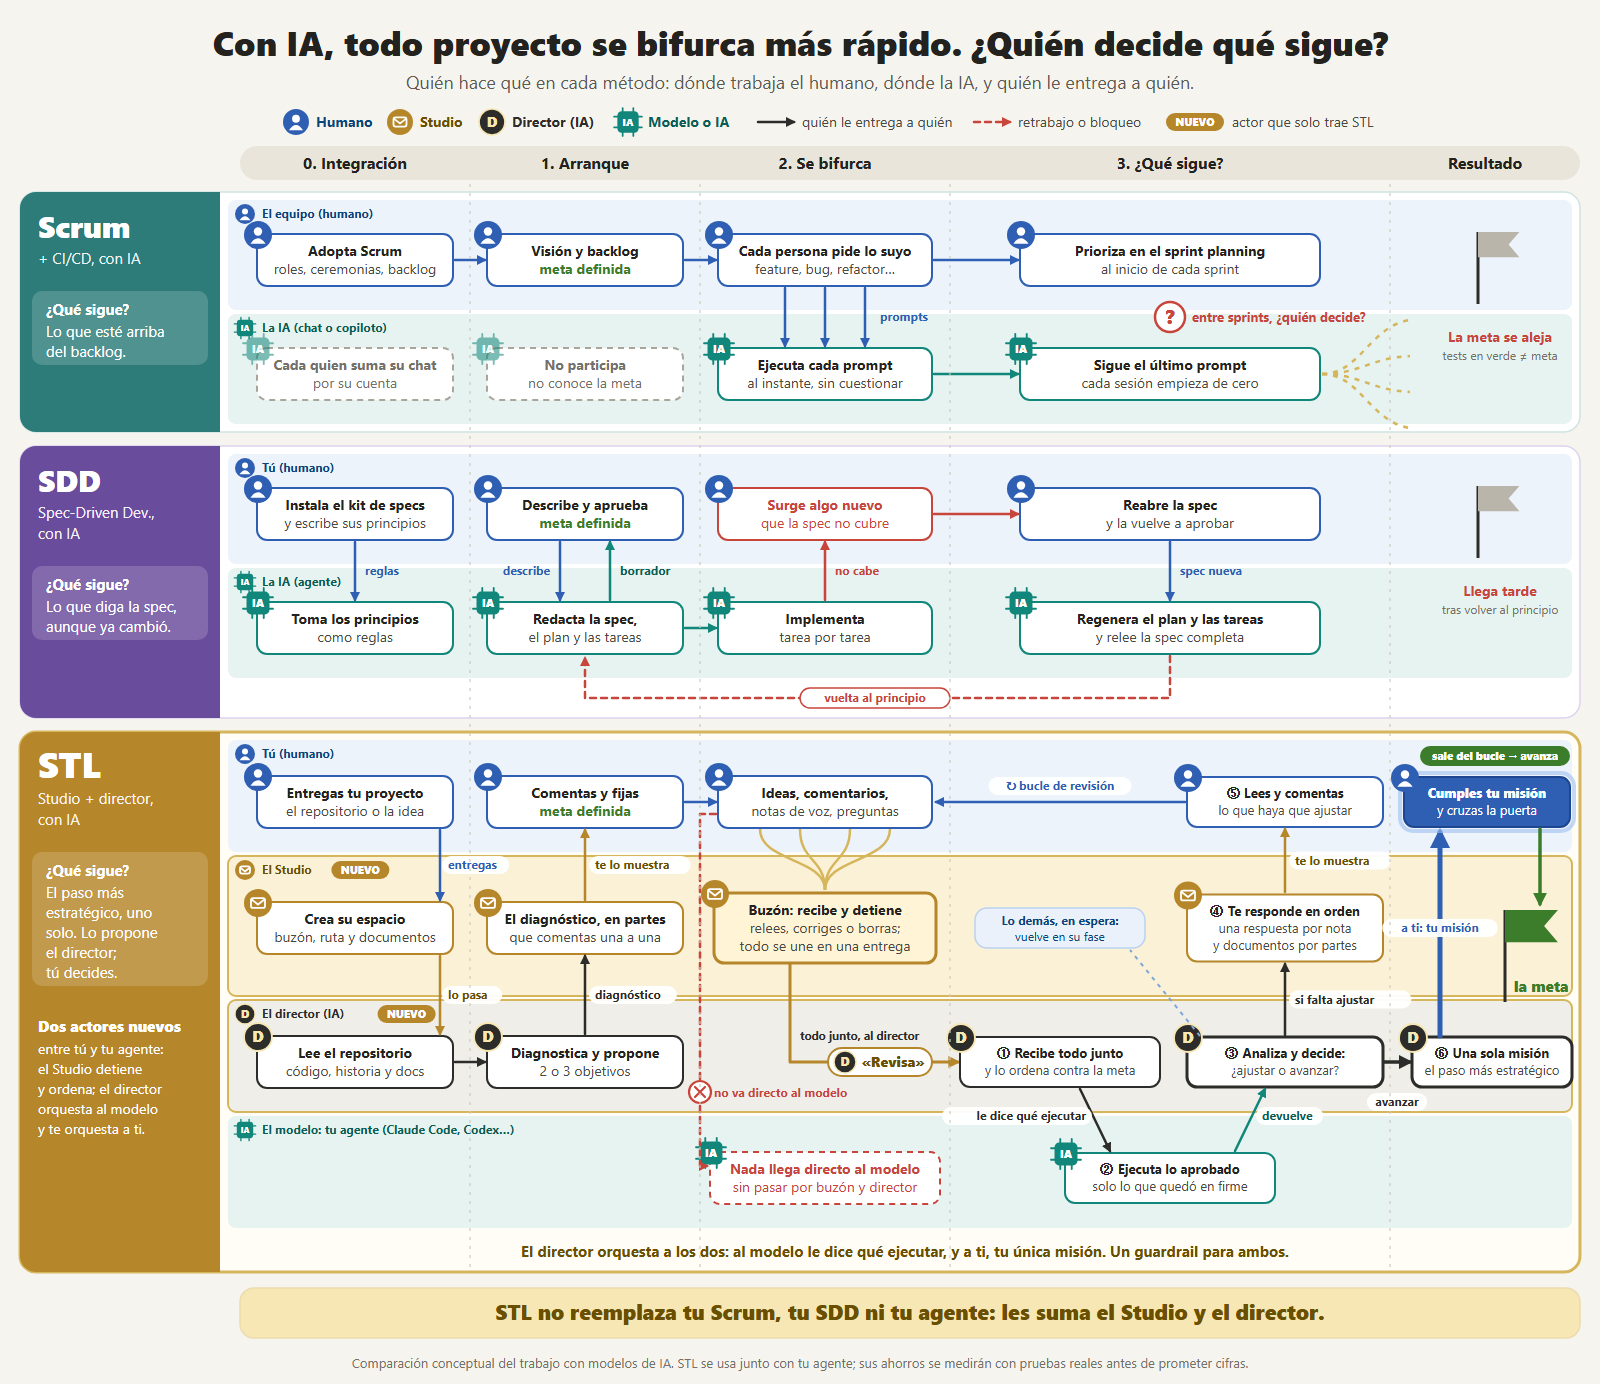
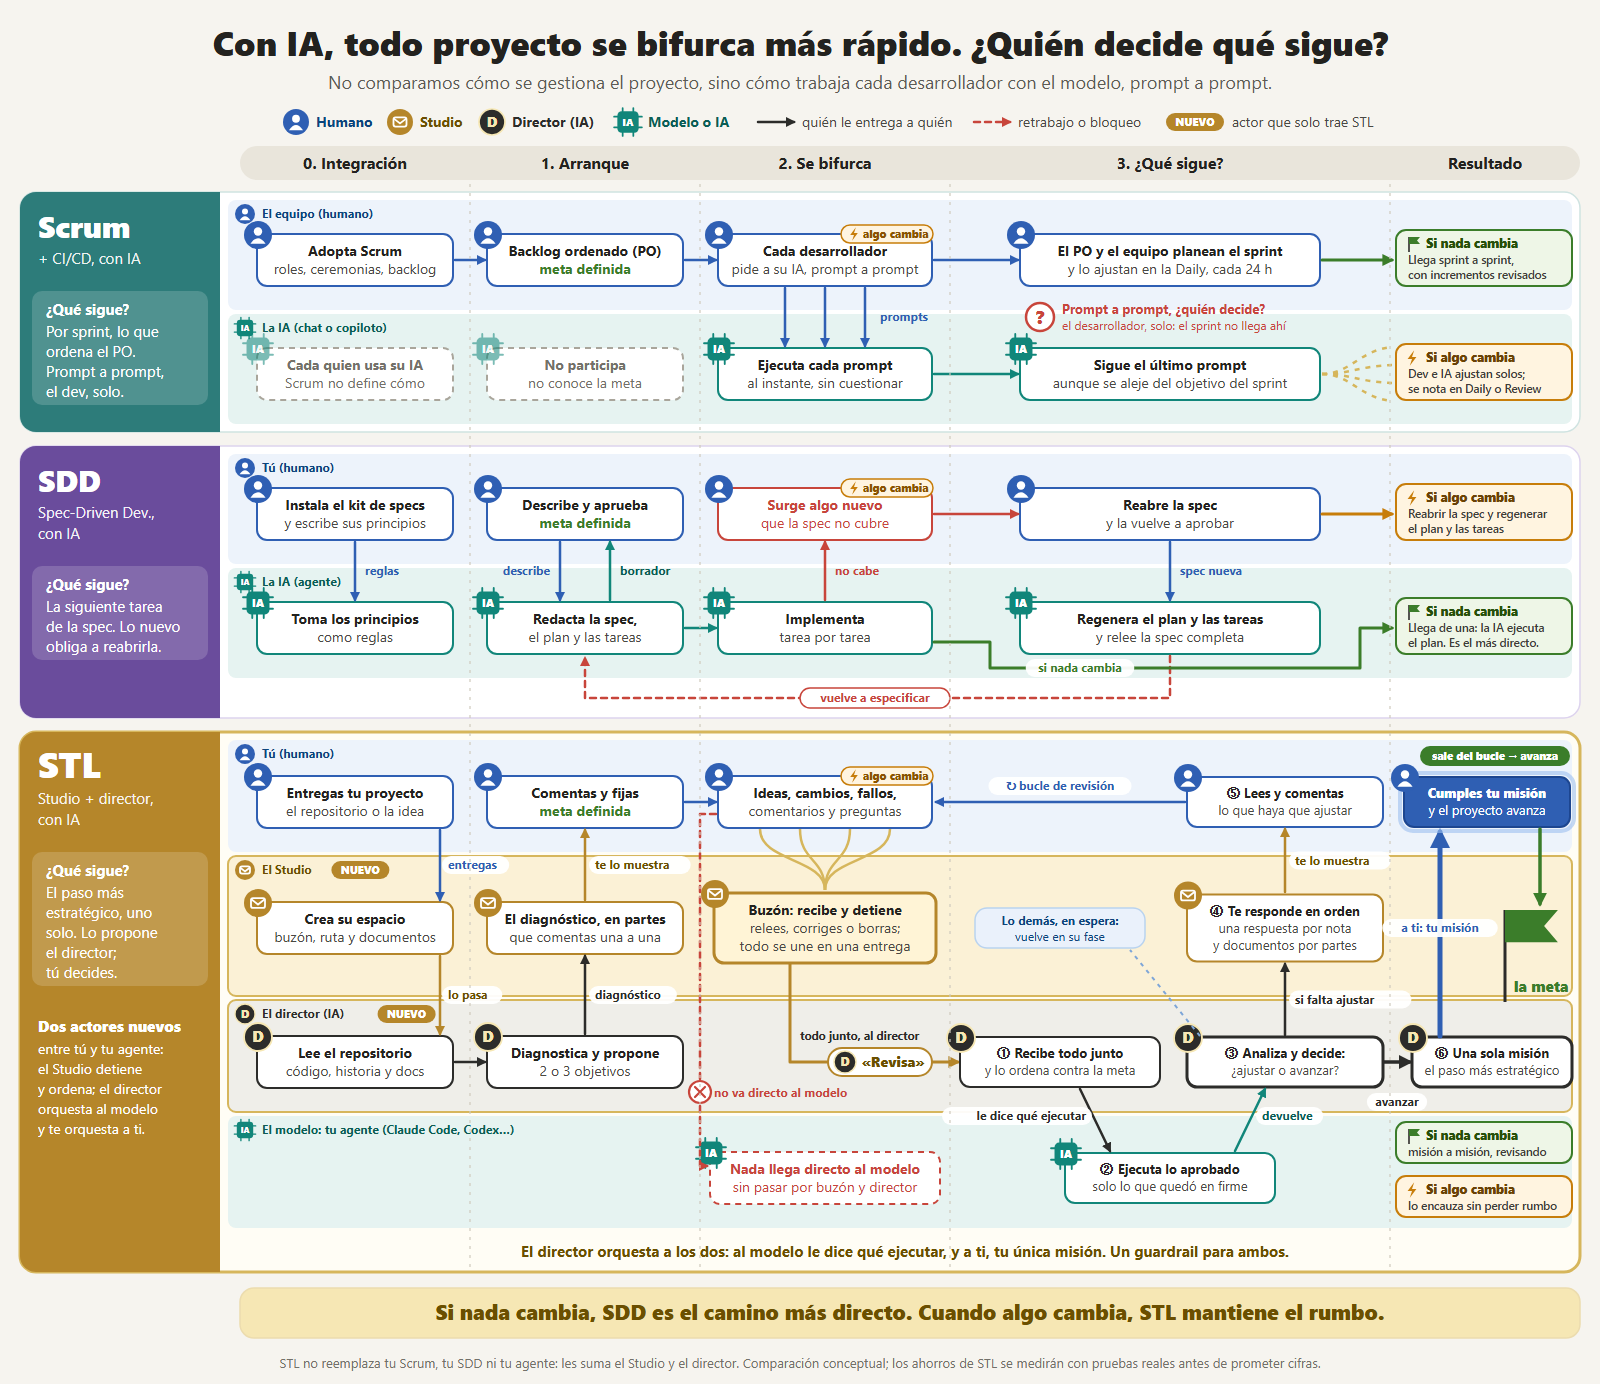
Qué es STL: Scrum y SDD como funcionan de verdad, y cada método en sus dos casos (si nada cambia y si algo cambia)

diff --git a/director.css b/director.css
@@ -411,15 +411,30 @@ details.puedo[open] > summary { margin-bottom: 10px; }
 .redactar .botones { display: flex; justify-content: flex-end; }
 .grabadora { display: flex; gap: 10px; align-items: center; flex-wrap: wrap; }
 .grabadora button { font-size: 14px; }
-.grabadora button.grabando { background: #fcebeb; border-color: #e7a9a6; color: #791f1f; animation: latido-g 1.2s ease-in-out infinite; }
+.grabadora button.grabando { background: #fcebeb; border-color: #e7a9a6; color: #791f1f; }
+.grabadora button.grabar { border-color: #e7a9a6; color: #791f1f; font-weight: 600; }
 .grabadora .ayuda-g { font-size: 13px; color: var(--suave); }
+.grabadora .esperando-mic { color: var(--aviso-texto); font-weight: 600; }
+.grabadora .audio-listo { flex-basis: 100%; margin: 0; font-size: 13.5px; color: var(--ok-texto); font-weight: 600; }
 @keyframes latido-g { 50% { background: #f8d4d4; } }
-/* Mientras graba, el diálogo se hace a un lado: solo queda la pastilla de la grabación, abajo al centro, y la página
-   se puede leer y recorrer (estudio/src/grabadora.ts) */
+/* Grabando: imposible no verlo. Un punto rojo que late, el tiempo y un medidor que se mueve con la voz */
+.grabadora.en-grabacion { padding: 8px 12px; border: 2px solid var(--peligro); border-radius: 14px; background: #fff7f6; }
+.punto-grabando { flex: none; width: 14px; height: 14px; border-radius: 50%; background: var(--peligro); animation: punto-g 1s ease-in-out infinite; }
+@keyframes punto-g { 0%, 100% { box-shadow: 0 0 0 0 rgba(179, 54, 47, 0.55); } 50% { box-shadow: 0 0 0 7px rgba(179, 54, 47, 0); opacity: 0.75; } }
+.grabando-texto { font-size: 15px; color: var(--peligro-texto); font-variant-numeric: tabular-nums; }
+.nivel-voz { display: inline-flex; align-items: center; gap: 3px; height: 26px; }
+.nivel-voz i { width: 4px; border-radius: 2px; background: var(--peligro); height: calc(4px + var(--nivel, 0) * 18px); transition: height 0.08s linear; }
+.nivel-voz i:nth-child(2), .nivel-voz i:nth-child(4) { height: calc(4px + var(--nivel, 0) * 13px); }
+.nivel-voz i:nth-child(1), .nivel-voz i:nth-child(5) { height: calc(4px + var(--nivel, 0) * 8px); }
+@media (prefers-reduced-motion: reduce) { .punto-grabando { animation: none; } }
+/* Mientras graba, el diálogo se hace a un lado: solo queda la pastilla de la grabación, abajo y al centro, grande, y la
+   página se puede leer y recorrer (estudio/src/grabadora.ts) */
 dialog.a-un-lado { position: fixed; inset: auto; z-index: 90; width: 0; height: 0; margin: 0; padding: 0; border: 0; overflow: visible; background: none; box-shadow: none; visibility: hidden; }
-dialog.a-un-lado .grabadora { visibility: visible; position: fixed; left: calc(var(--lateral) + 24px); bottom: 20px; width: max-content; max-width: min(460px, calc(100vw - var(--lateral) - 140px)); padding: 6px 12px 6px 6px; gap: 10px; background: var(--panel); border: 1px solid #e7a9a6; border-radius: 999px; box-shadow: var(--sombra-alta); flex-wrap: nowrap; }
-dialog.a-un-lado .grabadora .ayuda-g { font-size: 12.5px; line-height: 1.35; }
-@media (max-width: 759px) { dialog.a-un-lado .grabadora { left: 12px; max-width: calc(100vw - 96px); border-radius: 18px; } }
+dialog.a-un-lado .grabadora { visibility: visible; position: fixed; left: calc(var(--lateral) + (100vw - var(--lateral)) / 2); bottom: 24px; transform: translateX(-50%); width: max-content; max-width: min(620px, calc(100vw - var(--lateral) - 48px)); padding: 10px 14px; gap: 12px; flex-wrap: wrap; justify-content: center; background: #fff7f6; border: 2px solid var(--peligro); border-radius: 18px; box-shadow: 0 0 0 4px rgba(179, 54, 47, 0.12), var(--sombra-alta); animation: pastilla-g 2s ease-in-out infinite; }
+@keyframes pastilla-g { 50% { box-shadow: 0 0 0 9px rgba(179, 54, 47, 0.08), var(--sombra-alta); } }
+dialog.a-un-lado .grabadora .ayuda-g { flex-basis: 100%; text-align: center; font-size: 12.5px; line-height: 1.35; }
+dialog.a-un-lado .grabadora button { min-height: 38px; }
+@media (max-width: 759px) { dialog.a-un-lado .grabadora { left: 50%; max-width: calc(100vw - 24px); bottom: 16px; } }
 .notas-lista { list-style: none; margin: 0; padding: 0; display: grid; grid-template-columns: minmax(0, 1fr); gap: 10px; max-width: 900px; }
 .nota-d { background: var(--panel); border: 1px solid var(--borde); border-radius: var(--radio); padding: 12px 14px; display: grid; grid-template-columns: minmax(0, 1fr); gap: 8px; font-size: 14.5px; }
 .nota-d header { display: flex; gap: 8px; align-items: center; flex-wrap: wrap; }
@@ -533,10 +548,21 @@ dialog.a-un-lado .grabadora .ayuda-g { font-size: 12.5px; line-height: 1.35; }
 .estado-revision { display: inline-flex; align-items: baseline; gap: 6px; padding: 7px 12px; border-radius: var(--radio); font-size: 13.5px; border: 1px solid var(--acento-borde); background: var(--acento-fondo); color: var(--acento-texto); }
 .estado-revision.en-curso { gap: 0; }
 .estado-revision .enlace { font-size: 13px; margin-left: 4px; }
+.estado-revision.sin-vigilia { border-color: #e7a9a6; background: var(--peligro-fondo); color: var(--peligro-texto); font-weight: 600; }
 .cabeza-proyecto .donde { min-width: 0; }
 .sobretitulo { display: block; font-size: 12.5px; font-weight: 700; letter-spacing: 0.05em; text-transform: uppercase; color: var(--tenue); }
 .cabeza-proyecto h1 { margin: 4px 0 0; font-size: 26px; line-height: 1.2; }
 .cabeza-proyecto h1 small { font-size: 15px; font-weight: 400; color: var(--suave); margin-left: 4px; }
+.cabeza-proyecto .sobretitulo .aqui { color: var(--acento-texto); }
+/* La cabecera queda fija al desplazar: siempre se sabe en qué proyecto y en qué sección estás. Al bajar se compacta. */
+@media (min-width: 760px) {
+  .cabeza-proyecto { position: sticky; top: 0; z-index: 8; transition: padding 0.15s; }
+  body.cabeza-compacta .cabeza-proyecto { padding-top: 10px; padding-bottom: 10px; gap: 6px; box-shadow: 0 2px 12px rgba(30, 28, 24, 0.07); }
+  body.cabeza-compacta .cabeza-fila.segunda { display: none; }
+  body.cabeza-compacta .cabeza-proyecto h1 { font-size: 19px; margin-top: 2px; }
+}
+/* El título de cada parte de un documento queda fijo bajo la cabecera mientras la lees */
+.parte-doc > h2:first-child, .parte-doc > h3:first-child { position: sticky; top: var(--alto-cabeza, 0px); z-index: 2; margin-top: 0; padding: 8px 0; background: var(--panel); box-shadow: 0 6px 6px -6px rgba(30, 28, 24, 0.12); }
 .avance-puerta { min-height: 32px; gap: 10px; padding: 2px 4px; border: 0; background: none; font-size: 14px; color: var(--suave); justify-content: flex-start; text-align: left; }
 .avance-puerta:hover { background: none; color: var(--acento-texto); }
 .avance-puerta .barra-medida { width: 150px; flex: none; }

diff --git a/index.html b/index.html
@@ -88,10 +88,10 @@
 
     <section class="seccion-stl">
       <h2>Frente a Scrum y SDD</h2>
-      <p>Scrum y el desarrollo guiado por especificaciones (SDD) siguen sirviendo para organizar el trabajo, pero ninguno se pensó para un modelo que ejecuta al instante lo que le pidas. En el gráfico, cada método va en carriles: dónde trabaja el humano, dónde la IA y quién le entrega a quién.</p>
+      <p>Scrum y el desarrollo guiado por especificaciones (SDD) siguen sirviendo para organizar el trabajo, pero ninguno se pensó para un modelo que ejecuta al instante lo que le pidas. Aquí no comparamos cómo se gestiona el proyecto, que Scrum y SDD resuelven bien, sino <b>cómo trabaja cada desarrollador con el modelo, prompt a prompt</b>. En el gráfico, cada método va en carriles: dónde trabaja el humano, dónde la IA y quién le entrega a quién.</p>
       <figure class="grafico-stl">
-        <div class="lienzo-stl"><img src="grafico-comparativo.svg" alt="Scrum, SDD y STL trabajando con IA, en carriles. En Scrum la IA sigue el último prompt y entre sprints nadie decide qué sigue; en SDD lo nuevo choca con la spec y obliga a volver al principio; en STL nada llega directo al modelo: el Studio detiene y ordena lo que dices, y el director orquesta a los dos, al modelo le dice qué ejecutar y a ti te da una sola misión, el paso más estratégico, con la que se sale del bucle de revisión y el proyecto avanza hasta la meta." loading="lazy"></div>
-        <figcaption>En <b>Scrum</b>, la IA sigue el último prompt y entre sprints nadie decide qué sigue. En <b>SDD</b>, lo nuevo choca con la spec y obliga a volver al principio. En <b>STL</b>, el Studio detiene y ordena, y el director orquesta a los dos: revisa con el modelo hasta que todo está en firme y entonces te da una sola misión, el paso más estratégico, con la que el proyecto avanza. <a href="grafico-comparativo.svg" target="_blank" rel="noopener noreferrer">Abrir en grande ↗</a></figcaption>
+        <div class="lienzo-stl"><img src="grafico-comparativo.svg" alt="Scrum, SDD y STL trabajando con IA, en carriles y en dos casos. Si nada cambia, los tres llegan, y SDD es el camino más directo: la IA ejecuta el plan de una. Si algo cambia: en Scrum el desarrollador y su IA lo ajustan solos y el desvío se nota en la Daily o la Review; en SDD hay que reabrir la spec y regenerar el plan y las tareas; en STL nada llega directo al modelo: el buzón lo detiene, el director lo encauza y te da una sola misión, el paso más estratégico, y el proyecto mantiene el rumbo." loading="lazy"></div>
+        <figcaption>Cada método, en dos casos. <b>Si nada cambia</b>, los tres llegan, y SDD es el más directo: la IA ejecuta el plan de una. <b>Si algo cambia</b> (una idea nueva, un fallo, algo que no se previó): en <b>Scrum</b>, el Product Owner y el equipo deciden qué sigue en cada sprint, pero prompt a prompt el desarrollador y su IA lo ajustan solos, y el desvío se nota en la Daily o la Review; en <b>SDD</b> hay que reabrir la spec y regenerar el plan; en <b>STL</b>, el Studio lo detiene en el buzón y el director lo encauza con una sola misión, sin perder el rumbo. <a href="grafico-comparativo.svg" target="_blank" rel="noopener noreferrer">Abrir en grande ↗</a></figcaption>
       </figure>
     </section>
 
@@ -140,6 +140,7 @@
       <ul class="cuando-stl">
         <li class="si"><b>Sí: muchas tareas cortas dentro de un proyecto largo.</b> Es justo donde el chat se dispersa: cada tarea llega con su contexto, su orden y su historia, y ninguna se pierde ni se repite.</li>
         <li class="no"><b>No: una tarea corta, de una sola vez, que no pertenece a ningún proyecto</b> (un script suelto, una consulta puntual). El arranque no se alcanza a pagar: ahí el chat o tu agente, directo, es más rápido.</li>
+        <li class="no"><b>Tampoco cuando todo está especificado y nada va a cambiar.</b> Si la spec está completa y estable, SDD (o tu agente con un plan) llega más directo: la IA ejecuta el plan de una. STL se paga cuando el camino cambia: ideas nuevas, fallos, cosas que no se previeron.</li>
         <li class="no"><b>Tampoco una urgencia que pide ir y venir al instante</b>, aunque sea de un proyecto (un error en producción, depurar en vivo): aquí no hay respuesta inmediata, porque lo que dices espera a la revisión. Resuélvela directo con tu agente y después cuéntaselo al director, para que quede en la historia y en la ruta.</li>
       </ul>
       <p>La regla práctica: <b>STL para dirigir el proyecto; el agente directo para lo inmediato.</b></p>

diff --git a/estilos.css b/estilos.css
@@ -191,6 +191,17 @@ button.insignia { border: 0; min-height: 30px; padding: 4px 10px; font-size: 13p
 /* cuántas preguntas tienes en tu lote, sin enviar */
 .atajo[data-cifra]:not([data-cifra=''])::after { content: attr(data-cifra); position: absolute; top: -4px; right: -4px; min-width: 20px; height: 20px; padding: 0 5px; border-radius: 999px; display: grid; place-items: center; background: var(--acento); color: #fff; font-size: 11.5px; font-weight: 800; box-shadow: 0 0 0 2px var(--fondo); }
 body.sin-proyectos .atajos-director, body.sin-proyectos .selector-proyecto, body.sin-proyectos .navegacion, body.sin-proyectos .identidad { display: none !important; }
+/* el atajo de la revisión: azul mientras está pedida o en curso; rojo si nadie la está mirando */
+.atajo.activo { background: var(--acento); color: #fff; }
+.atajo.alerta { background: var(--peligro); color: #fff; animation: latido-atajo 1.6s ease-in-out infinite; }
+@keyframes latido-atajo { 50% { box-shadow: 0 0 0 6px rgba(179, 54, 47, 0.25), 0 4px 14px rgba(0, 0, 0, 0.25); } }
+/* Lo que pasa en segundo plano (transcripciones, la revisión): una pastilla sobre los atajos, siempre a la vista */
+.segundo-plano { position: fixed; right: 24px; bottom: 258px; z-index: 6; display: flex; flex-direction: column; align-items: flex-end; gap: 6px; pointer-events: none; }
+.segundo-plano[hidden] { display: none; }
+.sp-linea { pointer-events: auto; display: inline-flex; align-items: baseline; gap: 0; padding: 5px 12px; border-radius: 999px; background: var(--tinta); color: #f6f2e6; font-size: 12.5px; box-shadow: 0 4px 14px rgba(0, 0, 0, 0.2); }
+button.sp-linea { width: auto; min-height: 0; border: 0; font-weight: 600; cursor: pointer; }
+.sp-linea.alerta { background: var(--peligro); color: #fff; }
+body.sin-proyectos .segundo-plano { display: none !important; }
 
 /* ── Los avisos: abajo, sin mover la página ── */
 .aviso-flotante {
@@ -250,6 +261,8 @@ body.sin-servidor .cabeza-proyecto::before { content: '⚠ El servidor del Studi
   .cabeza-proyecto { padding-top: 14px; }
   body.menu-abierto .atajos-director { display: none; }
   .atajos-director { right: 26px; bottom: 84px; }
+  .segundo-plano { right: 18px; bottom: 243px; }
+  body.menu-abierto .segundo-plano { display: none; }
   .atajo { width: 40px; height: 40px; }
   .aviso-flotante { left: 12px; right: 96px; transform: none; width: auto; max-width: none; bottom: 16px; }
   .dialogo-director form { padding: 20px 18px 0; }
